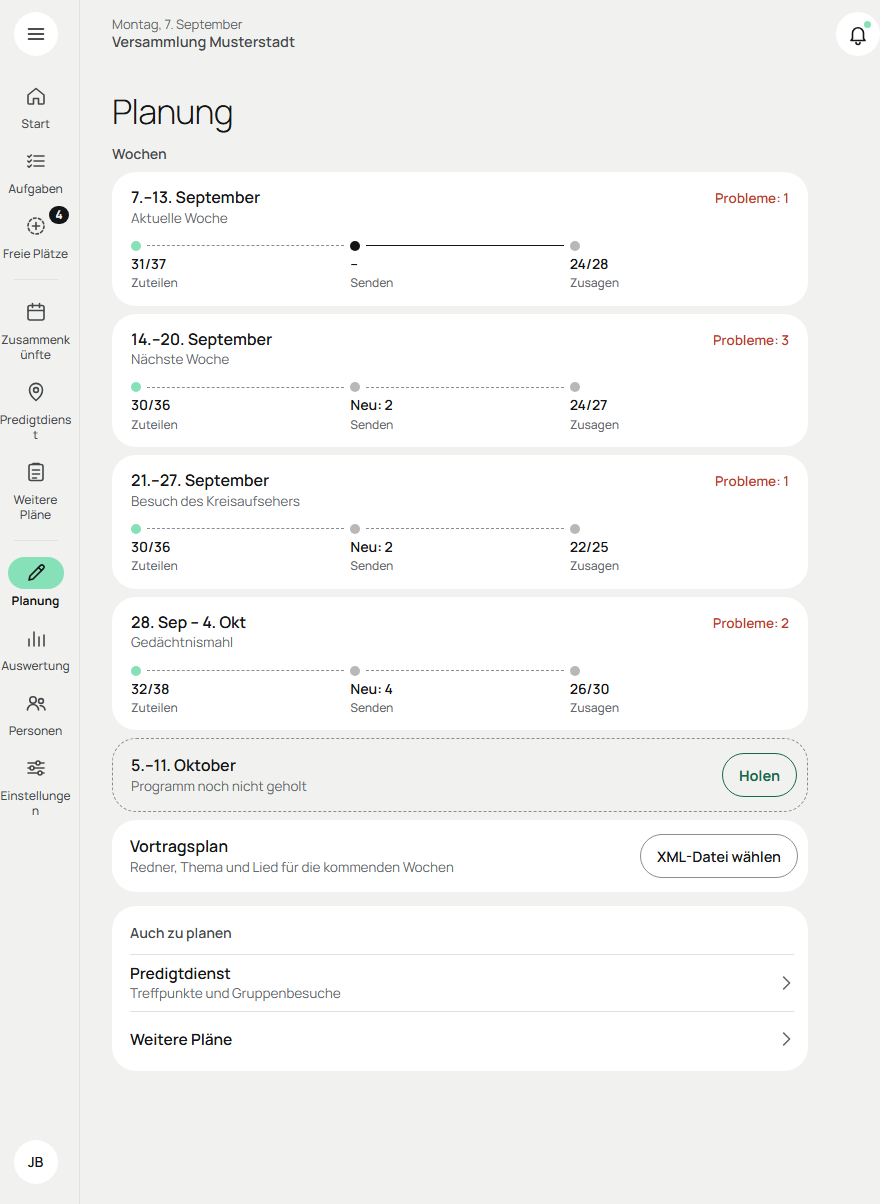
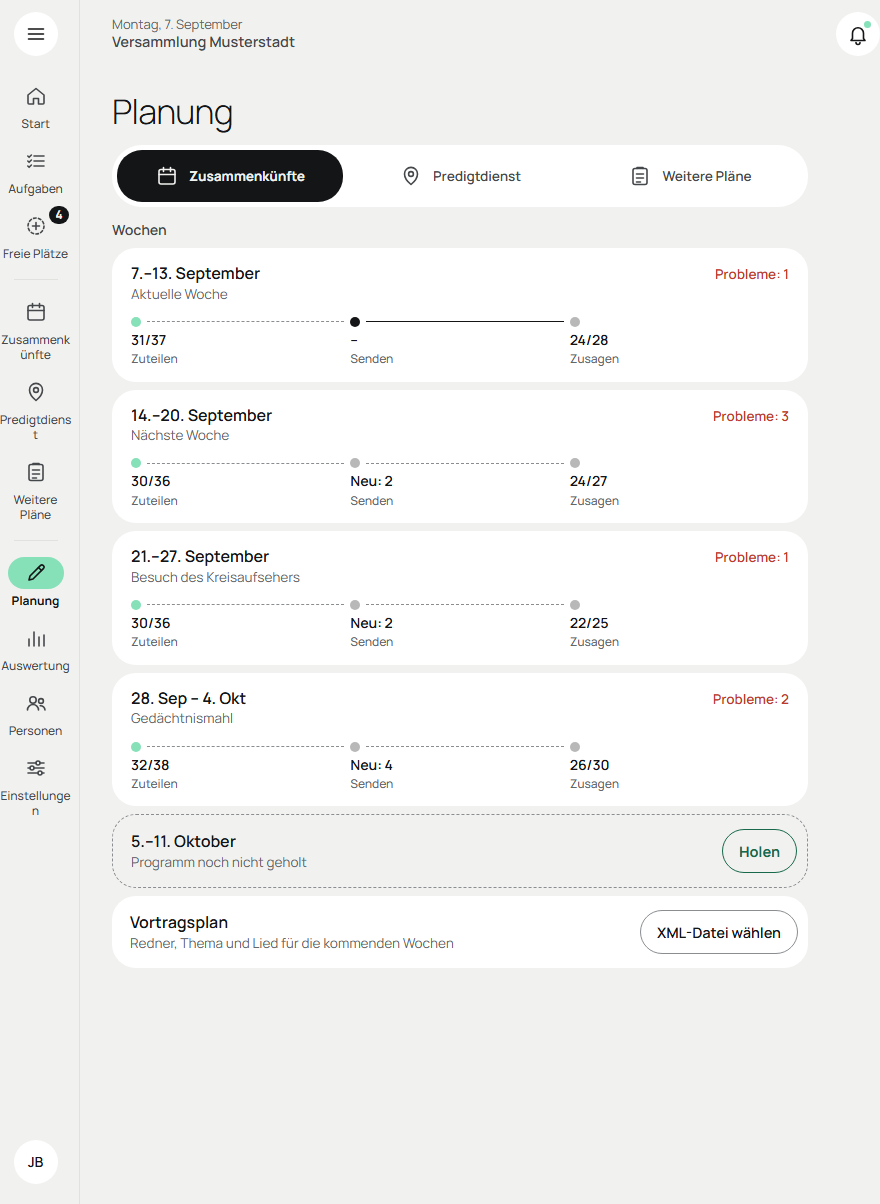
Planung: oben die Wahl Zusammenkünfte, Predigtdienst, Weitere Pläne (T135)
Betreiber am 24. Oktober: „Unter Menüpunkt Planung soll die Auswahl zwischen
Zusammenkünfte, Dienst und weitere pläne sein … nur Zusammenkünfte sind
leicht zu finden beim planen und der rest ist ganz unten".

- `PlanungsBereiche`: dieselbe große Wahl wie bei den Bereichen des
  Predigtdienstes (`bereich-tabs`), mit den Zeichen des Menüs. Oben auf der
  Seite „Planung" (gewählt: Zusammenkünfte, darunter die Wochen) und oben in
  der Wochenspalte neben dem Plan am Desktop (gewählt: was daneben geplant
  wird). Nur, was man planen darf; der Gruppenaufseher bekommt keine Wahl.
- Die Karte „Auch zu planen" am Ende der Seite ist fort, mit ihren zwei
  Schlüsseln in zwölf Sprachen.
- Handbuch für Planer, Bild „planer-wochen" neu.

Geprüft: tsc -b, oxlint, vitest (7038 Tests; Wahl, Gruppenaufseher und Spalte
in `wochen-ansicht.test.tsx`), Build, Mutationsprobe (3 Regeln bewacht), im
echten Chrome mit Trennwörterbüchern (T128-Werkzeug `breit.mjs`): Handy
320–430 px und Desktop 1400–1920 px, je zwölf Sprachen und Schriftstufen
1–1,45 — kein Bruch ohne Strich, Deutsch trennt „Zusammen-künfte".

diff --git a/src/planen/wochen-ansicht.test.tsx b/src/planen/wochen-ansicht.test.tsx
@@ -141,14 +141,34 @@ describe('Die Seite „Planung" (`GWochen`)', () => {
     expect(holen.querySelector('button')?.textContent).toBe(t.holen)
   })
 
-  it('„Auch zu planen": der Predigtdienst und die Weiteren Pläne', () => {
+  it('oben die Wahl, was man plant — die Zusammenkünfte gewählt, die übrigen einen Tipp entfernt (T135)', () => {
+    /*
+     * Betreiber 24.10.2026: „nur Zusammenkünfte sind leicht zu finden beim
+     * planen und der rest ist ganz unten". Bis dahin standen Predigtdienst und
+     * Weitere Pläne als „Auch zu planen" unter allen Wochen.
+     */
     const { container, dispatch } = zeige(<PlanungScreen />)
-    const zeilen = [...container.querySelectorAll('.einst-zeile')]
-    expect(zeilen.map((z) => z.querySelector('.einst-zeile-name')?.textContent)).toEqual([t.tabFs, t.navWeiterePlaene])
-    fireEvent.click(zeilen[0]!)
+    const wahl = container.querySelector('.bereich-tabs')!
+    expect(wahl.compareDocumentPosition(container.querySelector('.planung-wochen')!) & Node.DOCUMENT_POSITION_FOLLOWING).toBeTruthy()
+    const knoepfe = [...wahl.querySelectorAll('button')]
+    expect(knoepfe.map((k) => [k.textContent, k.getAttribute('aria-pressed')])).toEqual([
+      [t.navZusammenkuenfte, 'true'],
+      [t.tabFs, 'false'],
+      [t.navWeiterePlaene, 'false'],
+    ])
+    fireEvent.click(knoepfe[1]!)
     expect(dispatch).toHaveBeenCalledWith({ type: 'navigate', screen: 'planen', thema: 'predigtdienst' })
-    fireEvent.click(zeilen[1]!)
+    fireEvent.click(knoepfe[2]!)
     expect(dispatch).toHaveBeenCalledWith({ type: 'navigate', screen: 'planen', thema: 'weitere' })
+    // Die gewählte führt nirgendwohin — man ist schon da.
+    dispatch.mockClear()
+    fireEvent.click(knoepfe[0]!)
+    expect(dispatch).not.toHaveBeenCalled()
+  })
+
+  it('der Gruppenaufseher plant nur die Treffpunkte — er bekommt keine Wahl', () => {
+    const { container } = zeige(<PlanungScreen />, { planner: false, personId: 'p-ov' })
+    expect(container.querySelector('.bereich-tabs')).toBeNull()
   })
 
   it('ohne geladene Woche steht nur „Holen" da — ab der laufenden', () => {
@@ -169,6 +189,18 @@ describe('Die Spalte neben dem Plan (`GDesktopPlanen`)', () => {
   it('fehlt darunter — dann führt „Planung" auf die Seite', () => {
     const { container } = zeige(<PlanenScreen />, { screen: 'planen' })
     expect(container.querySelector('.wochen-spalte')).toBeNull()
+  })
+
+  it('trägt oben dieselbe Wahl wie die Seite — gewählt ist, was daneben geplant wird (T135)', () => {
+    breite(true)
+    const gewaehlt = (tab: 'mid' | 'fs') => {
+      const { container } = zeige(<PlanenScreen />, { screen: 'planen', tab })
+      const knopf = container.querySelector('.wochen-spalte .bereich-tabs [aria-pressed="true"]')?.textContent
+      cleanup()
+      return knopf
+    }
+    expect(gewaehlt('mid')).toBe(t.navZusammenkuenfte)
+    expect(gewaehlt('fs')).toBe(t.tabFs)
   })
 
   it('der Gruppenaufseher bekommt sie nicht — er plant allein die Treffpunkte seiner Gruppe', () => {

diff --git a/src/planen/PlanungScreen.tsx b/src/planen/PlanungScreen.tsx
@@ -1,33 +1,24 @@
-import { useApp } from '../app/context'
-import { zumPlanen } from '../app/bereich'
-import { EinstellZeile } from '../einstellungen/EinstellZeile'
 import { useT } from '../i18n/useT'
+import { PlanungsBereiche } from './PlanungsBereiche'
 import { WochenListe } from './WochenUebersicht'
-// Die Zeilen von „Auch zu planen" sind die der Einstellungen (`EinstellZeile`).
-import '../einstellungen/einstellungen.css'
 import './planen.css'
 
 /**
  * **Planung** (T121, Entwurf `GWochen`) — am Handy, am Tablet und auf kleinen
- * Desktops der Einstieg ins Planen: alle Wochen mit ihrer Spur, die nächste
- * zum Holen, darunter, was es sonst zu planen gibt. Wo Platz für drei Spalten
- * ist, steht dieselbe Liste links neben dem Plan (`WochenSpalte`), und
- * „Planung" führt gleich dorthin (`zurPlanung`).
+ * Desktops der Einstieg ins Planen: oben die Wahl, was man plant (T135), darunter
+ * alle Wochen der Zusammenkünfte mit ihrer Spur, die nächste zum Holen. Wo Platz
+ * für drei Spalten ist, steht dieselbe Liste links neben dem Plan
+ * (`WochenSpalte`), und „Planung" führt gleich dorthin (`zurPlanung`).
  */
 export function PlanungScreen() {
-  const { dispatch } = useApp()
   const { t } = useT()
   return (
     <section className="screen planung">
       <h1 className="seitentitel seitentitel--gross">{t.dashPlanung}</h1>
+      <PlanungsBereiche aktiv="zusammenkuenfte" />
       <section className="planung-wochen" aria-label={t.wochenLbl}>
         <h2 className="abschnitt-titel">{t.wochenLbl}</h2>
         <WochenListe />
-      </section>
-      <section className="karte einst-karte">
-        <h2 className="abschnitt-titel karte-titel">{t.auchZuPlanen}</h2>
-        <EinstellZeile name={t.tabFs} unter={t.treffpunkteBesuche} onTipp={() => dispatch(zumPlanen('predigtdienst'))} />
-        <EinstellZeile name={t.navWeiterePlaene} onTipp={() => dispatch(zumPlanen('weitere'))} />
       </section>
     </section>
   )

diff --git a/src/planen/PlanungsBereiche.tsx b/src/planen/PlanungsBereiche.tsx
@@ -1,0 +1,48 @@
+import { useApp } from '../app/context'
+import { bereichsTitel, zumPlanen } from '../app/bereich'
+import { Zeichen, type ZeichenName } from '../bausteine/Zeichen'
+import { darfPlanen, rechteVon } from '../data/rechte'
+import type { Thema } from '../data/types'
+import { useT } from '../i18n/useT'
+
+/** Die Bereiche in der Reihenfolge des Menüs, mit ihrem Zeichen von dort. */
+const BEREICHE: ReadonlyArray<readonly [Thema, ZeichenName]> = [
+  ['zusammenkuenfte', 'zusammenkuenfte'],
+  ['predigtdienst', 'predigtdienst'],
+  ['weitere', 'plaene'],
+]
+
+/**
+ * **Was man planen kann, oben auf „Planung"** (T135, Betreiber 24.10.2026):
+ * „Unter Menüpunkt Planung soll die Auswahl zwischen Zusammenkünfte, Dienst und
+ * weitere Pläne sein … nur Zusammenkünfte sind leicht zu finden beim planen und
+ * der rest ist ganz unten". Bis dahin standen Predigtdienst und Weitere Pläne
+ * unter „Auch zu planen" am Ende der Seite.
+ *
+ * Dieselbe große Wahl wie bei den Bereichen des Predigtdienstes
+ * (`FsBereichTabs`); `aktiv` ist der Bereich, den die Seite gerade zeigt. Nur
+ * die Bereiche, die man planen darf — ist es einer, steht keine Wahl da.
+ */
+export function PlanungsBereiche({ aktiv }: { aktiv: Thema }) {
+  const { state, dispatch } = useApp()
+  const { t } = useT()
+  const rechte = rechteVon(state)
+  const bereiche = BEREICHE.filter(([thema]) => darfPlanen(rechte, thema))
+  if (bereiche.length < 2) return null
+  return (
+    <nav className="bereich-tabs" aria-label={t.dashPlanung}>
+      {bereiche.map(([thema, zeichen]) => (
+        <button
+          key={thema}
+          type="button"
+          className="bereich-tab"
+          aria-pressed={aktiv === thema}
+          onClick={() => aktiv !== thema && dispatch(zumPlanen(thema))}
+        >
+          <Zeichen name={zeichen} />
+          {bereichsTitel(t, thema)}
+        </button>
+      ))}
+    </nav>
+  )
+}

diff --git a/src/planen/WochenUebersicht.tsx b/src/planen/WochenUebersicht.tsx
@@ -7,10 +7,12 @@ import { anlassName } from '../components/anlass-name'
 import { wochenSpanne } from '../components/datum-anzeige'
 import { anlassArt } from '../data/anlass'
 import { fromIso, montagNach, montagVon } from '../data/meeting-dates'
+import { themaVon } from '../data/rechte'
 import type { Week } from '../data/types'
 import type { Dict } from '../i18n/ui'
 import { fill, programmSpanne, useProgWeeks, useT } from '../i18n/useT'
 import { spurDerWoche } from './plan-spur'
+import { PlanungsBereiche } from './PlanungsBereiche'
 import { HolenKnopf } from './ProgrammHolen'
 import { VortragsplanKarte } from './VortragsplanKarte'
 import { naechsteHolWoche, wochenKarten, type WochenKarte, type WochenLage } from './wochen-uebersicht'
@@ -151,10 +153,13 @@ function HolenKarte({ montag }: { montag: string }) {
 
 /** Die Spalte links neben dem Plan am Desktop (Entwurf `GDesktopPlanen`). */
 export function WochenSpalte() {
+  const { state } = useApp()
   const { t } = useT()
   return (
     <aside className="wochen-spalte" aria-label={t.wochenLbl}>
       <h2 className="wochen-spalte-titel">{t.dashPlanung}</h2>
+      {/* Was man planen kann (T135) — wie oben auf der Seite „Planung". */}
+      <PlanungsBereiche aktiv={themaVon(state.tab)} />
       <WochenListe spalte />
     </aside>
   )

diff --git a/src/i18n/overlays/ru.ts b/src/i18n/overlays/ru.ts
@@ -771,8 +771,6 @@ export default {
   "holenHinweis": "При добавлении сразу вносится постоянный руководитель изучения «Сторожевой башни», а при его отсутствии — заместитель. Отсутствия учитываются при назначении.",
   "uebernehmenZuteilen": "Добавить и назначить",
   "nurUebernehmen": "Только добавить",
-  "auchZuPlanen": "Также планировать",
-  "treffpunkteBesuche": "Встречи и посещения групп",
   "lageSenden": "К отправке: {n}",
   "holenSpracheFehlt": "Этой недели ещё нет на jw.org на языке собрания",
   "personNameLbl": "Имя",

diff --git a/src/i18n/overlays/uk.ts b/src/i18n/overlays/uk.ts
@@ -771,8 +771,6 @@ export default {
   "holenHinweis": "Під час додавання одразу вноситься постійний ведучий вивчення «Вартової башти», а за його відсутності — заступник. Відсутності враховуються під час призначення.",
   "uebernehmenZuteilen": "Додати й призначити",
   "nurUebernehmen": "Лише додати",
-  "auchZuPlanen": "Також планувати",
-  "treffpunkteBesuche": "Зустрічі та відвідини груп",
   "lageSenden": "До надсилання: {n}",
   "holenSpracheFehlt": "Цього тижня ще немає на jw.org мовою збору",
   "personNameLbl": "Ім’я",

diff --git a/src/i18n/overlays/fa.ts b/src/i18n/overlays/fa.ts
@@ -770,8 +770,6 @@ export default {
   "holenHinweis": "هنگام افزودن، ادارهکنندهٔ ثابت مطالعهٔ برج دیدهبانی بیدرنگ ثبت میشود و در غیاب او جانشینش. غیبتها هنگام تعیین در نظر گرفته میشوند.",
   "uebernehmenZuteilen": "افزودن و تعیین",
   "nurUebernehmen": "فقط افزودن",
-  "auchZuPlanen": "برنامهریزیهای دیگر",
-  "treffpunkteBesuche": "جلسات و بازدید از گروهها",
   "lageSenden": "{n} برای ارسال",
   "holenSpracheFehlt": "این هفته هنوز در jw.org به زبان جماعت موجود نیست",
   "personNameLbl": "نام",

diff --git a/src/i18n/overlays/ar.ts b/src/i18n/overlays/ar.ts
@@ -771,8 +771,6 @@ export default {
   "holenHinweis": "عند الإضافة يُسجَّل مدير درس برج المراقبة الثابت فورًا، وعند غيابه يُسجَّل البديل. تُراعى الغيابات عند التعيين.",
   "uebernehmenZuteilen": "إضافة وتعيين",
   "nurUebernehmen": "إضافة فقط",
-  "auchZuPlanen": "مزيد من التخطيط",
-  "treffpunkteBesuche": "الاجتماعات وزيارات الفرق",
   "lageSenden": "للإرسال: {n}",
   "holenSpracheFehlt": "هذا الأسبوع غير متوفر بعد على jw.org بلغة الجماعة",
   "personNameLbl": "الاسم",

diff --git a/src/i18n/de.ts b/src/i18n/de.ts
@@ -525,7 +525,6 @@ export const DE = {
     programmpunkteN: 'Programmpunkte: {n}', punkteN: 'Punkte: {n}',
     holenHinweis: 'Beim Übernehmen kommt der feste Leiter des Wachtturm-Studiums gleich mit, bei Abwesenheit sein Vertreter. Abwesenheiten werden beim Zuteilen beachtet.',
     uebernehmenZuteilen: 'Übernehmen und zuteilen', nurUebernehmen: 'Nur übernehmen',
-    auchZuPlanen: 'Auch zu planen', treffpunkteBesuche: 'Treffpunkte und Gruppenbesuche',
     aktuellLbl: 'Aktuell:', entfernen: 'Entfernen', abwesendChip: 'Abwesend',
     sheetSchonHeute: 'An diesem Tag schon',
     // {w} = Breite des Auslastungs-Fensters (LOAD_WEEKS in data/auslastung.ts).

diff --git a/src/i18n/overlays/fr.ts b/src/i18n/overlays/fr.ts
@@ -771,8 +771,6 @@ export default {
   "holenHinweis": "Dès l’ajout, le conducteur fixe de l’Étude de La Tour de Garde est inscrit, ou son remplaçant en cas d’absence. Les absences sont prises en compte lors de l’attribution.",
   "uebernehmenZuteilen": "Ajouter et attribuer",
   "nurUebernehmen": "Ajouter seulement",
-  "auchZuPlanen": "À planifier également",
-  "treffpunkteBesuche": "Réunions et visites des groupes",
   "lageSenden": "À envoyer\u00a0: {n}",
   "holenSpracheFehlt": "Cette semaine n’est pas encore sur jw.org dans la langue de l’assemblée",
   "personNameLbl": "Nom",

diff --git a/src/i18n/overlays/it.ts b/src/i18n/overlays/it.ts
@@ -771,8 +771,6 @@ export default {
   "holenHinweis": "Aggiungendo, il conduttore fisso dello studio Torre di Guardia viene inserito subito, oppure il sostituto in caso di assenza. Le assenze vengono considerate durante l’assegnazione.",
   "uebernehmenZuteilen": "Aggiungi e assegna",
   "nurUebernehmen": "Solo aggiungi",
-  "auchZuPlanen": "Altro da pianificare",
-  "treffpunkteBesuche": "Adunanze e visite ai gruppi",
   "lageSenden": "Da inviare: {n}",
   "holenSpracheFehlt": "Questa settimana non è ancora su jw.org nella lingua della congregazione",
   "personNameLbl": "Nome",

diff --git a/src/i18n/overlays/ro.ts b/src/i18n/overlays/ro.ts
@@ -771,8 +771,6 @@ export default {
   "holenHinweis": "La adăugare, conducătorul fix al Studiului Turnului de veghe este trecut imediat, iar în caz de absență, înlocuitorul său. Absențele sunt luate în considerare la atribuire.",
   "uebernehmenZuteilen": "Adaugă și atribuie",
   "nurUebernehmen": "Doar adaugă",
-  "auchZuPlanen": "Alte planificări",
-  "treffpunkteBesuche": "Întruniri și vizite la grupe",
   "lageSenden": "De trimis: {n}",
   "holenSpracheFehlt": "Această săptămână nu este încă pe jw.org în limba congregației",
   "personNameLbl": "Nume",
